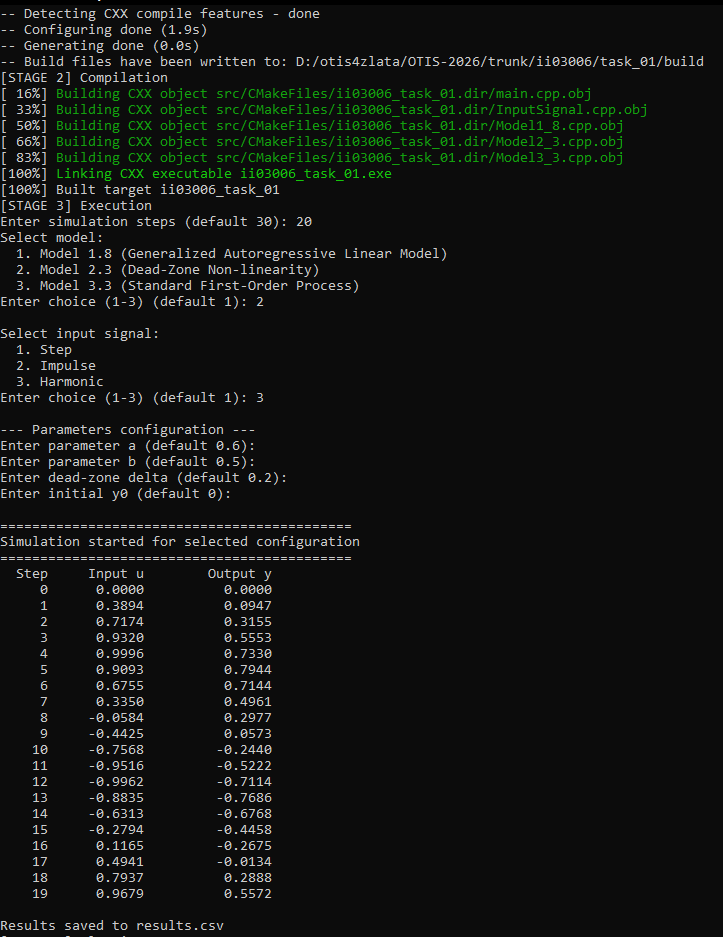
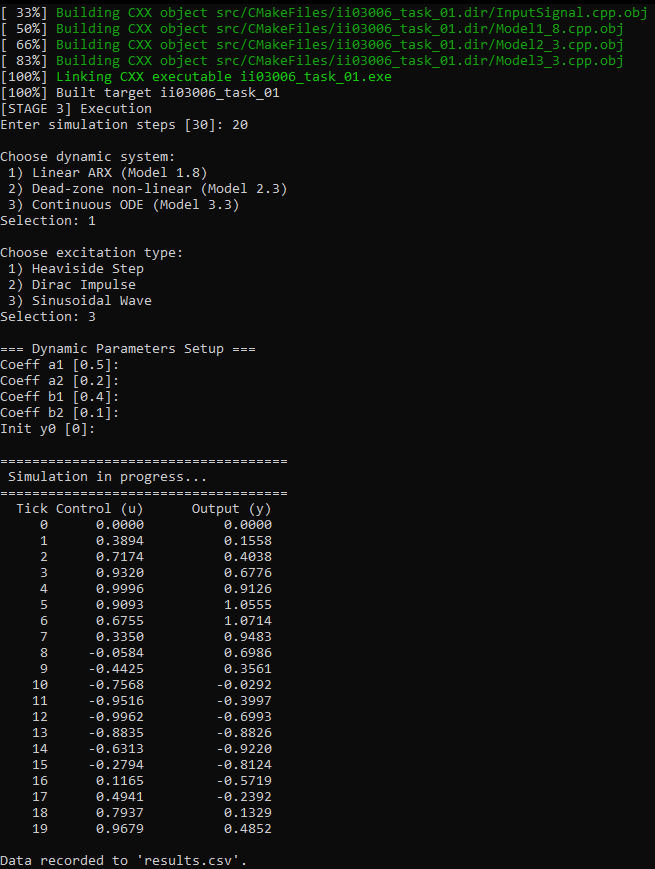
fix

Changed region(s): [[0.0, 0.0, 0.9771, 1.0]]

diff --git a/trunk/ii03006/task_01/src/main.cpp b/trunk/ii03006/task_01/src/main.cpp
@@ -2,139 +2,145 @@
 #include <fstream>
 #include <iomanip>
 #include <string>
-#include <sstream>
 #include <memory>
+#include <algorithm>
 #include "InputSignal.h"
 #include "Model.h"
 #include "Model1_8.h"
 #include "Model2_3.h"
 #include "Model3_3.h"
 
-int getSafeSteps(int raw_steps) {
-    constexpr int min_steps = 1;
-    constexpr int max_steps = 1000;
-    constexpr int default_steps = 30;
-    return (raw_steps < min_steps || raw_steps > max_steps) ? default_steps : raw_steps;
-}
+struct ExperimentConfig {
+    int total_ticks{30};
+    int model_id{1};
+    DiscreteSignalPattern signal_type{DiscreteSignalPattern::HeavisideStep};
+};
 
-template <typename T>
-T promptValue(const std::string& prompt, T default_value, T min_v = {}, T max_v = {}, bool check_range = false) {
-    std::cout << prompt << " (default " << default_value << "): ";
-    if (std::string input; std::getline(std::cin, input) && !input.empty()) {
-        std::stringstream ss(input);
-        T val;
-        if ((ss >> val) && (!check_range || (val >= min_v && val <= max_v))) {
-            return val;
+static double readField(const char* label, double fallback) {
+    std::cout << label << " [" << fallback << "]: ";
+    std::string line;
+    if (std::getline(std::cin, line) && !line.empty()) {
+        try {
+            return std::stod(line);
+        } catch (...) {
+            return fallback;
         }
     }
-    return default_value;
+    return fallback;
 }
 
-int getModelChoice() {
-    std::cout << "Select model:\n"
-              << "  1. Model 1.8 (Generalized Autoregressive Linear Model)\n"
-              << "  2. Model 2.3 (Dead-Zone Non-linearity)\n"
-              << "  3. Model 3.3 (Standard First-Order Process)\n";
-    return promptValue<int>("Enter choice (1-3)", 1, 1, 3, true);
-}
-
-SignalType getSignalChoice() {
-    std::cout << "\nSelect input signal:\n"
-              << "  1. Step\n"
-              << "  2. Impulse\n"
-              << "  3. Harmonic\n";
-    const int val = promptValue<int>("Enter choice (1-3)", 1, 1, 3, true);
-    if (val == 2) return SignalType::IMPULSE;
-    if (val == 3) return SignalType::HARMONIC;
-    return SignalType::STEP;
-}
-
-int main(int argc, char* argv[]) {
-    int parsed_steps = 30;
+static ExperimentConfig configureExperiment(int argc, char* argv[]) {
+    ExperimentConfig cfg;
 
     if (argc > 1) {
         try {
-            parsed_steps = getSafeSteps(std::stoi(argv[1]));
+            cfg.total_ticks = std::clamp(std::stoi(argv[1]), 1, 1000);
         } catch (...) {
-            parsed_steps = 30;
+            cfg.total_ticks = 30;
         }
     } else {
-        parsed_steps = getSafeSteps(promptValue<int>("Enter simulation steps", 30));
-    }
-
-    const int steps = parsed_steps;
-    const int model_choice = getModelChoice();
-    const SignalType selected_signal = getSignalChoice();
-
-    std::unique_ptr<Model> active_model;
-    std::string model_name;
-
-    std::cout << "\n--- Parameters configuration ---\n";
-
-    switch (model_choice) {
-        case 2: {
-            const double a = promptValue("Enter parameter a", 0.6);
-            const double b = promptValue("Enter parameter b", 0.5);
-            const double delta = promptValue("Enter dead-zone delta", 0.2);
-            const double y0 = promptValue("Enter initial y0", 0.0);
-            active_model = std::make_unique<Model2_3>(a, b, delta, y0);
-            model_name = "Model 2.3";
-            break;
-        }
-        case 3: {
-            const double a = promptValue("Enter parameter a", 0.5);
-            const double b = promptValue("Enter parameter b", 0.8);
-            const double dt = promptValue("Enter time step dt", 0.1);
-            const double y0 = promptValue("Enter initial y0", 0.0);
-            active_model = std::make_unique<Model3_3>(a, b, dt, y0);
-            model_name = "Model 3.3";
-            break;
-        }
-        case 1:
-        default: {
-            const double a1 = promptValue("Enter parameter a1", 0.5);
-            const double a2 = promptValue("Enter parameter a2", 0.2);
-            const double b1 = promptValue("Enter parameter b1", 0.4);
-            const double b2 = promptValue("Enter parameter b2", 0.1);
-            const double y0 = promptValue("Enter initial y0", 0.0);
-            active_model = std::make_unique<Model1_8>(a1, a2, b1, b2, y0);
-            model_name = "Model 1.8";
-            break;
+        std::cout << "Enter simulation steps [30]: ";
+        if (std::string line; std::getline(std::cin, line) && !line.empty()) {
+            try {
+                cfg.total_ticks = std::clamp(std::stoi(line), 1, 1000);
+            } catch (...) {
+                cfg.total_ticks = 30;
+            }
         }
     }
 
-    const std::string sig_name = InputSignal::getSignalName(selected_signal);
+    std::cout << "\nChoose dynamic system:\n"
+              << " 1) Linear ARX (Model 1.8)\n"
+              << " 2) Dead-zone non-linear (Model 2.3)\n"
+              << " 3) Continuous ODE (Model 3.3)\n"
+              << "Selection: ";
+    if (std::string line; std::getline(std::cin, line) && !line.empty()) {
+        try {
+            cfg.model_id = std::clamp(std::stoi(line), 1, 3);
+        } catch (...) {
+            cfg.model_id = 1;
+        }
+    }
 
-    std::ofstream out("results.csv");
-    if (!out.is_open()) {
-        std::cerr << "Failed to open results.csv\n";
+    std::cout << "\nChoose excitation type:\n"
+              << " 1) Heaviside Step\n"
+              << " 2) Dirac Impulse\n"
+              << " 3) Sinusoidal Wave\n"
+              << "Selection: ";
+    if (std::string line; std::getline(std::cin, line) && !line.empty()) {
+        try {
+            const int sig_id = std::stoi(line);
+            if (sig_id == 2) cfg.signal_type = DiscreteSignalPattern::DiracImpulse;
+            else if (sig_id == 3) cfg.signal_type = DiscreteSignalPattern::SinusoidalWave;
+            else cfg.signal_type = DiscreteSignalPattern::HeavisideStep;
+        } catch (...) {
+            cfg.signal_type = DiscreteSignalPattern::HeavisideStep;
+        }
+    }
+
+    return cfg;
+}
+
+int main(int argc, char* argv[]) {
+    const ExperimentConfig cfg = configureExperiment(argc, argv);
+
+    std::unique_ptr<Model> system;
+    std::string system_tag;
+
+    std::cout << "\n=== Dynamic Parameters Setup ===\n";
+    if (cfg.model_id == 2) {
+        const double a = readField("Coeff a", 0.6);
+        const double b = readField("Coeff b", 0.5);
+        const double d = readField("Dead-zone delta", 0.2);
+        const double y0 = readField("Init y0", 0.0);
+        system = std::make_unique<Model2_3>(a, b, d, y0);
+        system_tag = "Model 2.3";
+    } else if (cfg.model_id == 3) {
+        const double a = readField("Coeff a", 0.5);
+        const double b = readField("Coeff b", 0.8);
+        const double dt = readField("Step dt", 0.1);
+        const double y0 = readField("Init y0", 0.0);
+        system = std::make_unique<Model3_3>(a, b, dt, y0);
+        system_tag = "Model 3.3";
+    } else {
+        const double a1 = readField("Coeff a1", 0.5);
+        const double a2 = readField("Coeff a2", 0.2);
+        const double b1 = readField("Coeff b1", 0.4);
+        const double b2 = readField("Coeff b2", 0.1);
+        const double y0 = readField("Init y0", 0.0);
+        system = std::make_unique<Model1_8>(a1, a2, b1, b2, y0);
+        system_tag = "Model 1.8";
+    }
+
+    std::ofstream export_file("results.csv");
+    if (!export_file.is_open()) {
+        std::cerr << "Cannot open export destination 'results.csv'\n";
         return 1;
     }
 
-    out << "step,signal,u,y,model_name\n";
+    export_file << "step,signal,u,y,model_name\n";
+    const std::string_view sig_label = SignalGenerator::nameOf(cfg.signal_type);
 
-    std::cout << "\n============================================\n";
-    std::cout << "Simulation started for selected configuration\n";
-    std::cout << "============================================\n";
+    std::cout << "\n" << std::string(36, '=') << "\n";
+    std::cout << " Simulation in progress...\n";
+    std::cout << std::string(36, '=') << "\n";
+    std::cout << std::setw(6) << "Tick"
+              << std::setw(12) << "Control (u)"
+              << std::setw(16) << "Output (y)" << "\n";
 
-    std::cout << std::setw(6) << "Step"
-              << std::setw(12) << "Input u"
-              << std::setw(16) << "Output y" << "\n";
+    for (int k = 0; k < cfg.total_ticks; ++k) {
+        const double u_k = SignalGenerator::sample(cfg.signal_type, k);
+        const double y_k = system->step(u_k);
 
-    for (int t = 0; t < steps; ++t) {
-        const double u = InputSignal::getSignal(selected_signal, t);
-        const double y = active_model->step(u);
-
-        std::cout << std::setw(6) << t
+        std::cout << std::setw(6) << k
                   << std::fixed << std::setprecision(4)
-                  << std::setw(12) << u
-                  << std::setw(16) << y << "\n";
+                  << std::setw(12) << u_k
+                  << std::setw(16) << y_k << "\n";
 
-        out << t << "," << sig_name << "," << u << ","
-            << y << "," << model_name << "\n";
+        export_file << k << "," << sig_label << "," << u_k << "," << y_k << "," << system_tag << "\n";
     }
 
-    out.close();
-    std::cout << "\nResults saved to results.csv\n";
+    export_file.close();
+    std::cout << "\nData recorded to 'results.csv'.\n";
     return 0;
 }

diff --git a/trunk/ii03006/task_01/src/InputSignal.cpp b/trunk/ii03006/task_01/src/InputSignal.cpp
@@ -1,28 +1,29 @@
 #include "InputSignal.h"
 #include <cmath>
-#include <array>
 
-double InputSignal::getSignal(SignalType sig_type, int time_index) {
-    if (sig_type == SignalType::STEP) {
-        return 1.0;
+namespace SignalGenerator {
+
+double sample(DiscreteSignalPattern pattern, int k) {
+    switch (pattern) {
+        case DiscreteSignalPattern::HeavisideStep:
+            return 1.0;
+        case DiscreteSignalPattern::DiracImpulse:
+            return (k == 0) ? 1.0 : 0.0;
+        case DiscreteSignalPattern::SinusoidalWave:
+            return std::sin(0.4 * static_cast<double>(k));
+        default:
+            return 0.0;
     }
-    if (sig_type == SignalType::IMPULSE) {
-        return time_index == 0 ? 1.0 : 0.0;
-    }
-    if (sig_type == SignalType::HARMONIC) {
-        constexpr double freq = 0.4;
-        return std::sin(freq * static_cast<double>(time_index));
-    }
-    return 0.0;
 }
 
-std::string InputSignal::getSignalName(SignalType sig_type) {
-    static constexpr std::array<const char*, 3> names = {
-        "Step", "Impulse", "Harmonic"
-    };
-
-    if (const auto idx = static_cast<size_t>(sig_type); idx < names.size()) {
-        return names[idx];
+std::string_view nameOf(DiscreteSignalPattern pattern) {
+    if (pattern == DiscreteSignalPattern::DiracImpulse) {
+        return "Impulse";
     }
-    return "Unknown";
+    if (pattern == DiscreteSignalPattern::SinusoidalWave) {
+        return "Harmonic";
+    }
+    return "Step";
 }
+
+} // namespace SignalGenerator

diff --git a/trunk/ii03006/task_01/src/Model.h b/trunk/ii03006/task_01/src/Model.h
@@ -2,16 +2,24 @@
 
 class Model {
 private:
-    double m_y{0.0};
+    double state_value{0.0};
 
 public:
     Model() = default;
-    explicit Model(double start_val) : m_y(start_val) {}
+    explicit Model(double initial_state) : state_value(initial_state) {}
     virtual ~Model() = default;
 
     virtual double step(double input_u) = 0;
 
-    [[nodiscard]] double getY() const noexcept { return m_y; }
-    void setY(double next_val) noexcept { m_y = next_val; }
-    virtual void reset(double start_val = 0.0) { m_y = start_val; }
+    [[nodiscard]] double currentState() const noexcept {
+        return state_value;
+    }
+
+    void updateState(double next_state) noexcept {
+        state_value = next_state;
+    }
+
+    virtual void reset(double initial_state = 0.0) {
+        state_value = initial_state;
+    }
 };

diff --git a/trunk/ii03006/task_01/src/InputSignal.h b/trunk/ii03006/task_01/src/InputSignal.h
@@ -1,14 +1,13 @@
 #pragma once
-#include <string>
+#include <string_view>
 
-enum class SignalType {
-    STEP,
-    IMPULSE,
-    HARMONIC
+enum class DiscreteSignalPattern {
+    HeavisideStep,
+    DiracImpulse,
+    SinusoidalWave
 };
 
-class InputSignal {
-public:
-    static double getSignal(SignalType sig_type, int time_index);
-    static std::string getSignalName(SignalType sig_type);
-};
+namespace SignalGenerator {
+    double sample(DiscreteSignalPattern pattern, int k);
+    std::string_view nameOf(DiscreteSignalPattern pattern);
+}

diff --git a/trunk/ii03006/task_01/src/Model3_3.cpp b/trunk/ii03006/task_01/src/Model3_3.cpp
@@ -4,9 +4,9 @@ Model3_3::Model3_3(double a_val, double b_val, double dt_val, double initial_y)
     : Model(initial_y), a(a_val), b(b_val), dt(dt_val) {}
 
 double Model3_3::step(double u) {
-    const double current_y = getY();
-    const double dy = -a * current_y + b * u;
-    const double next_y = current_y + dy * dt;
-    setY(next_y);
+    const double current_y = currentState();
+    const double derivative = -a * current_y + b * u;
+    const double next_y = current_y + derivative * dt;
+    updateState(next_y);
     return next_y;
 }

diff --git a/trunk/ii03006/task_01/src/Model1_8.cpp b/trunk/ii03006/task_01/src/Model1_8.cpp
@@ -4,11 +4,11 @@ Model1_8::Model1_8(double a1_val, double a2_val, double b1_val, double b2_val, d
     : Model(initial_y), a1(a1_val), a2(a2_val), b1(b1_val), b2(b2_val), y_prev(initial_y) {}
 
 double Model1_8::step(double u) {
-    const double current_y = getY();
+    const double current_y = currentState();
     const double next_y = a1 * current_y + a2 * y_prev + b1 * u + b2 * u_prev;
     y_prev = current_y;
     u_prev = u;
-    setY(next_y);
+    updateState(next_y);
     return next_y;
 }
 

diff --git a/trunk/ii03006/task_01/src/Model2_3.cpp b/trunk/ii03006/task_01/src/Model2_3.cpp
@@ -15,7 +15,7 @@ double Model2_3::deadzone(double u, double d) {
 
 double Model2_3::step(double u) {
     const double nonlin = deadzone(u, delta);
-    const double next_y = a * getY() + b * nonlin;
-    setY(next_y);
+    const double next_y = a * currentState() + b * nonlin;
+    updateState(next_y);
     return next_y;
 }
